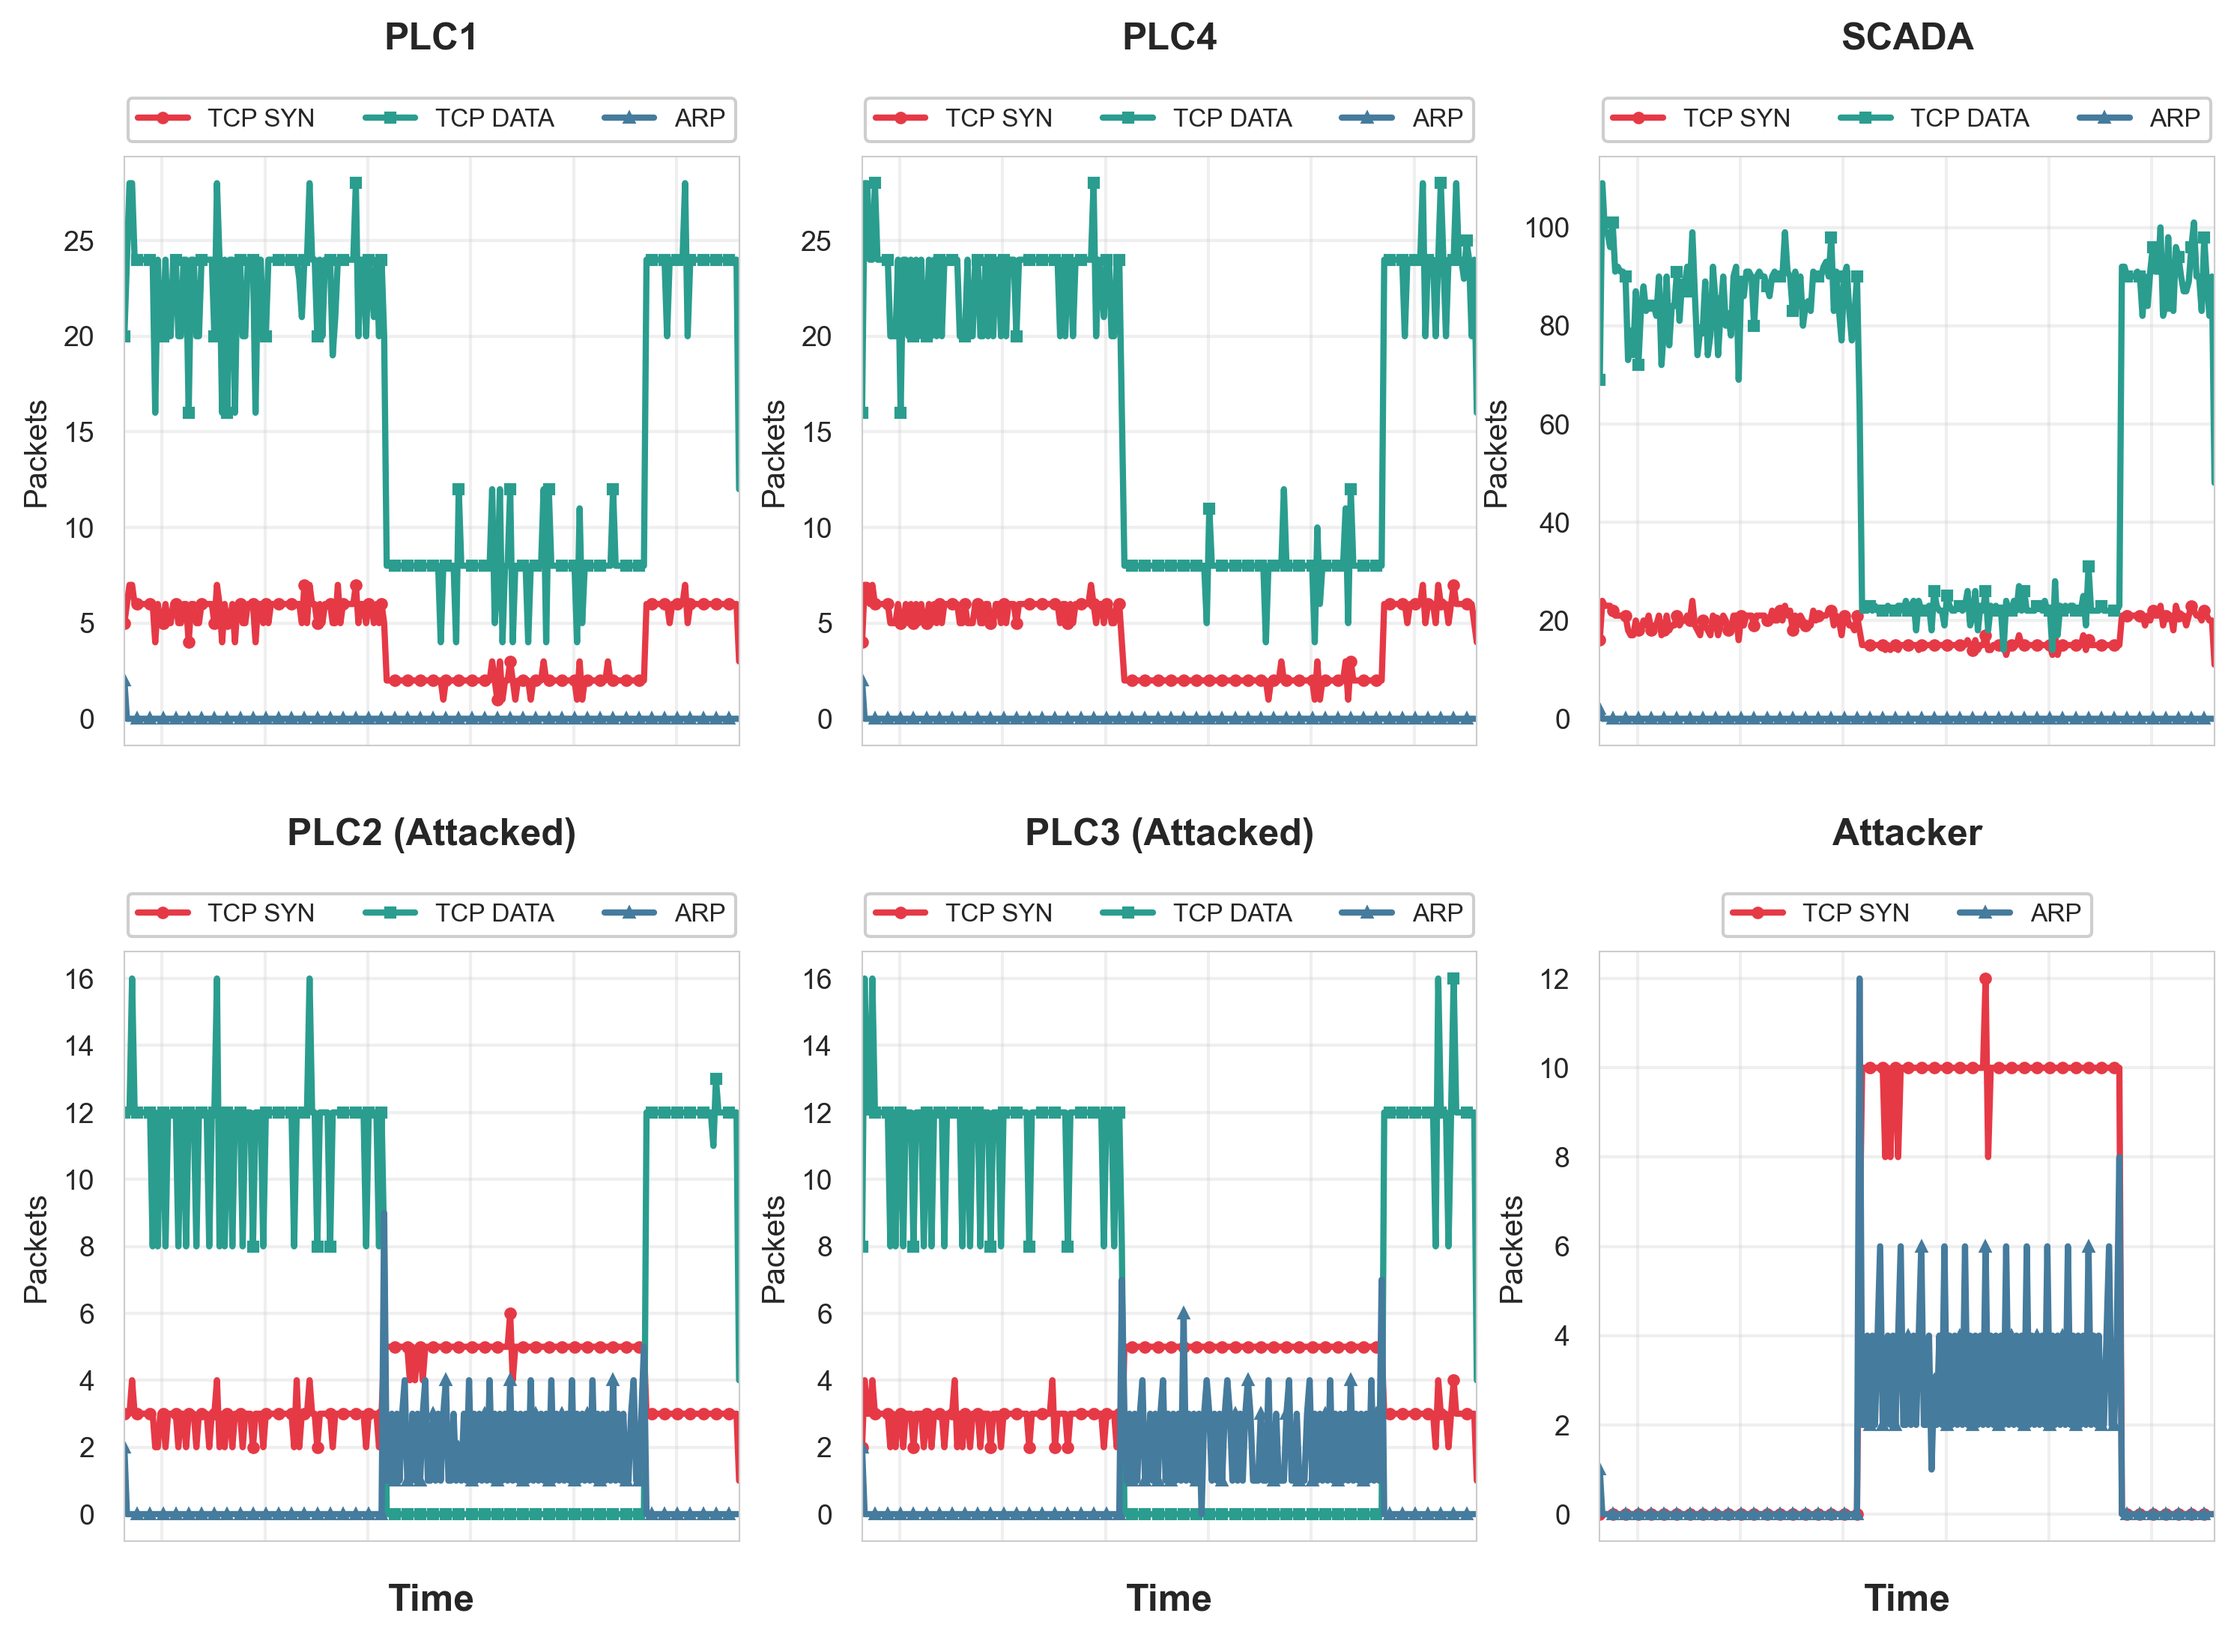
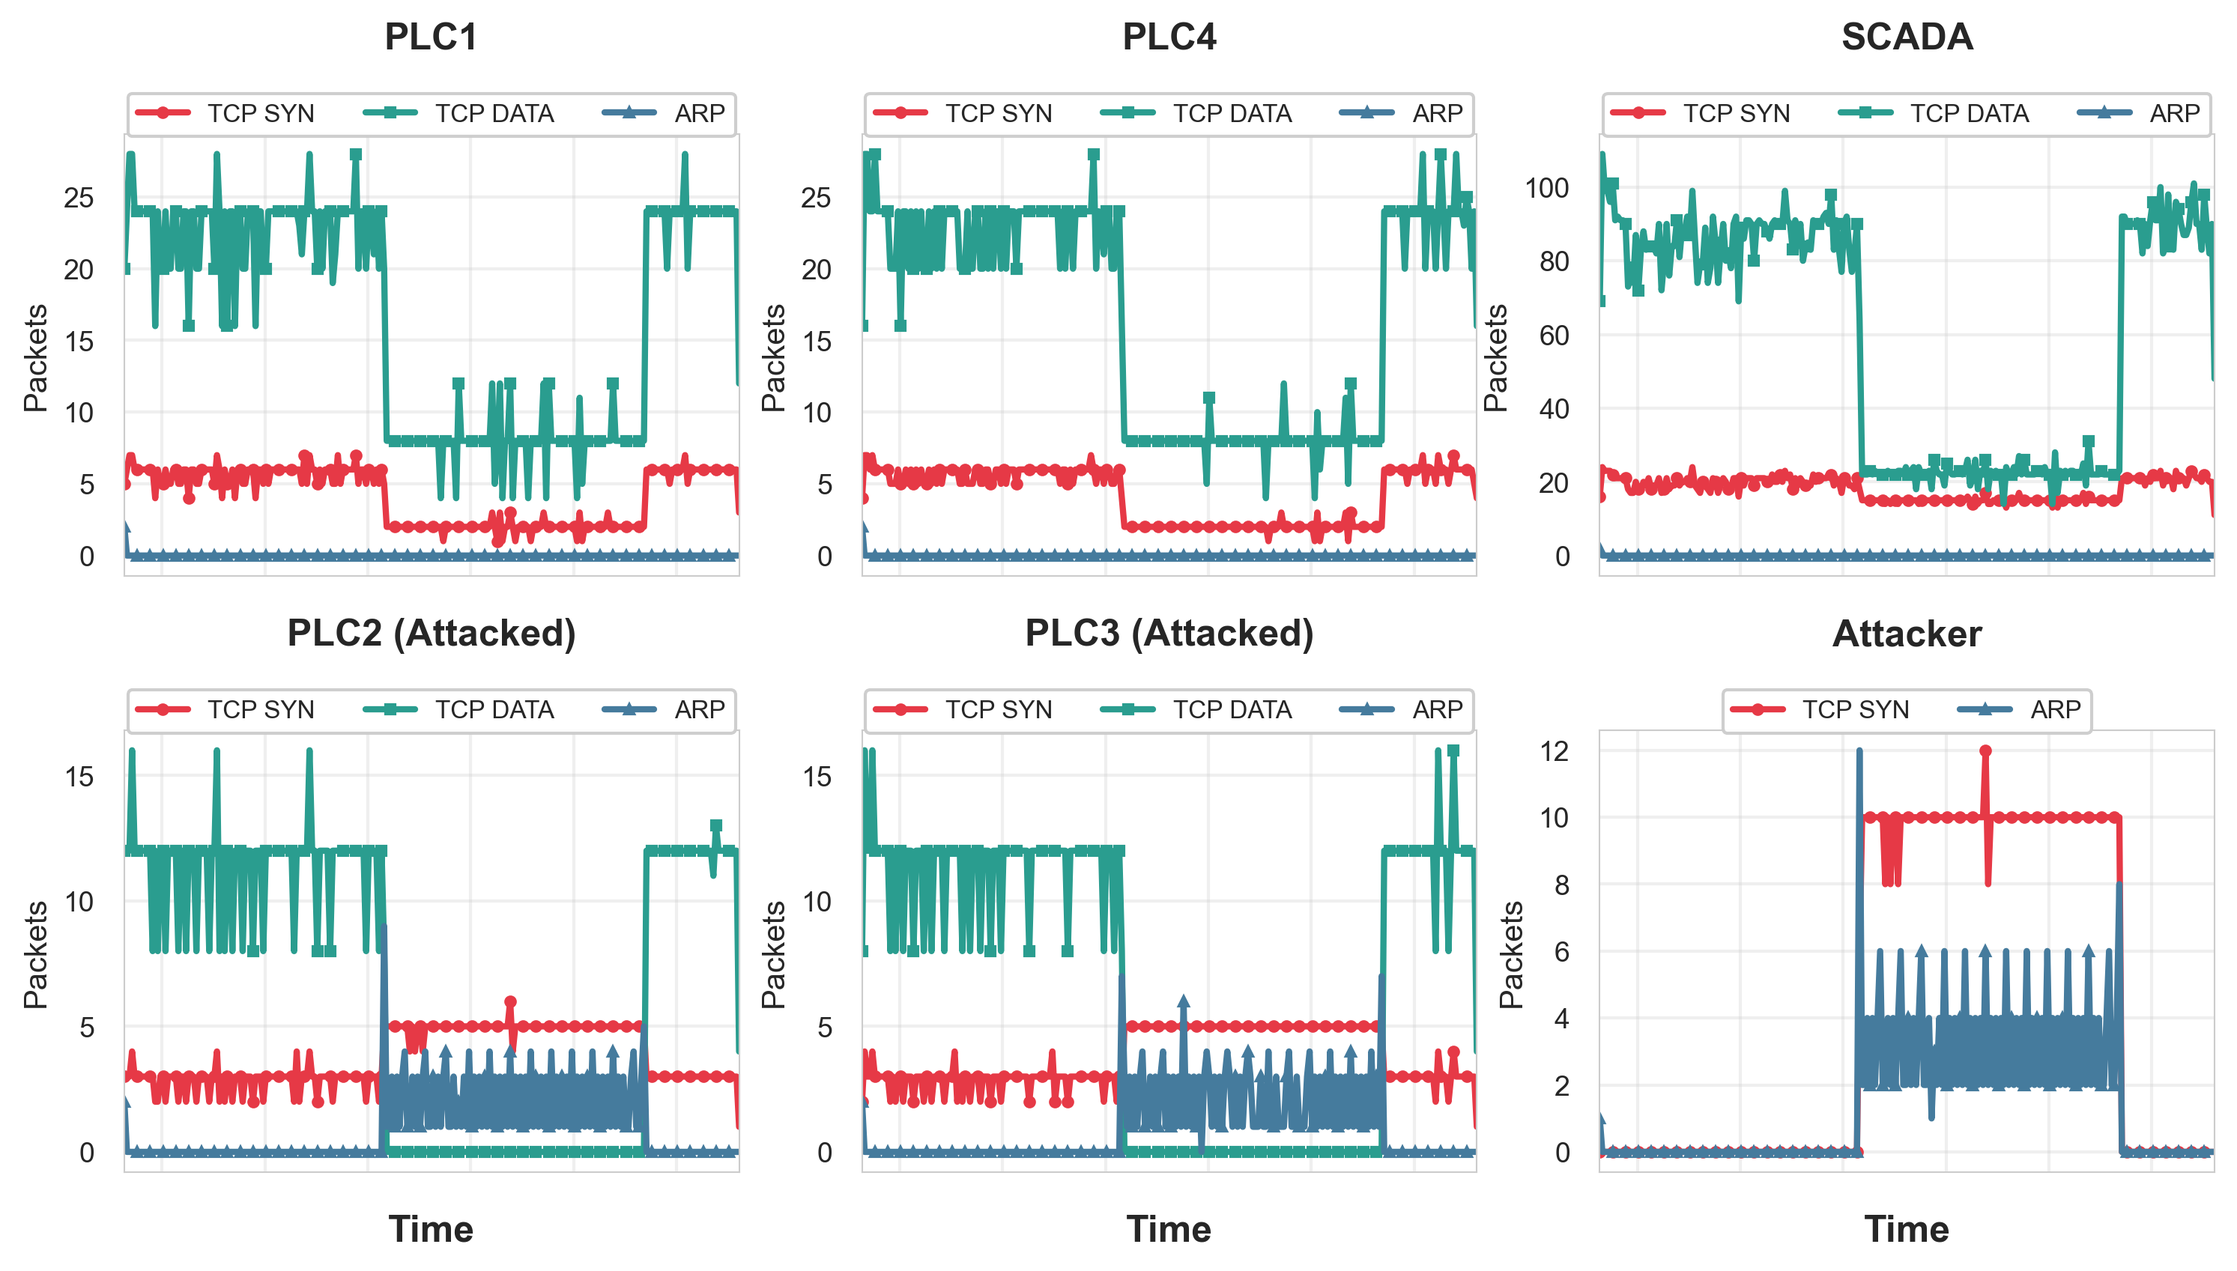
Reduce cyber plot height to 6

diff --git a/aaaMyViz/run_visualization.py b/aaaMyViz/run_visualization.py
@@ -127,7 +127,7 @@ try:
                      global_max_time + timedelta(seconds=bin_size),
                      timedelta(seconds=bin_size)).astype(datetime)
 
-    fig, axes = plt.subplots(nrows=2, ncols=3, sharex=True, sharey=False, figsize=(12, 8))
+    fig, axes = plt.subplots(nrows=2, ncols=3, sharex=True, sharey=False, figsize=(12, 6))
     # Layout: PLCs on left/middle, SCADA and Attacker on right
     # [0,0] PLC1    [0,1] PLC3    [0,2] SCADA
     # [1,0] PLC2    [1,1] PLC4    [1,2] Attacker
